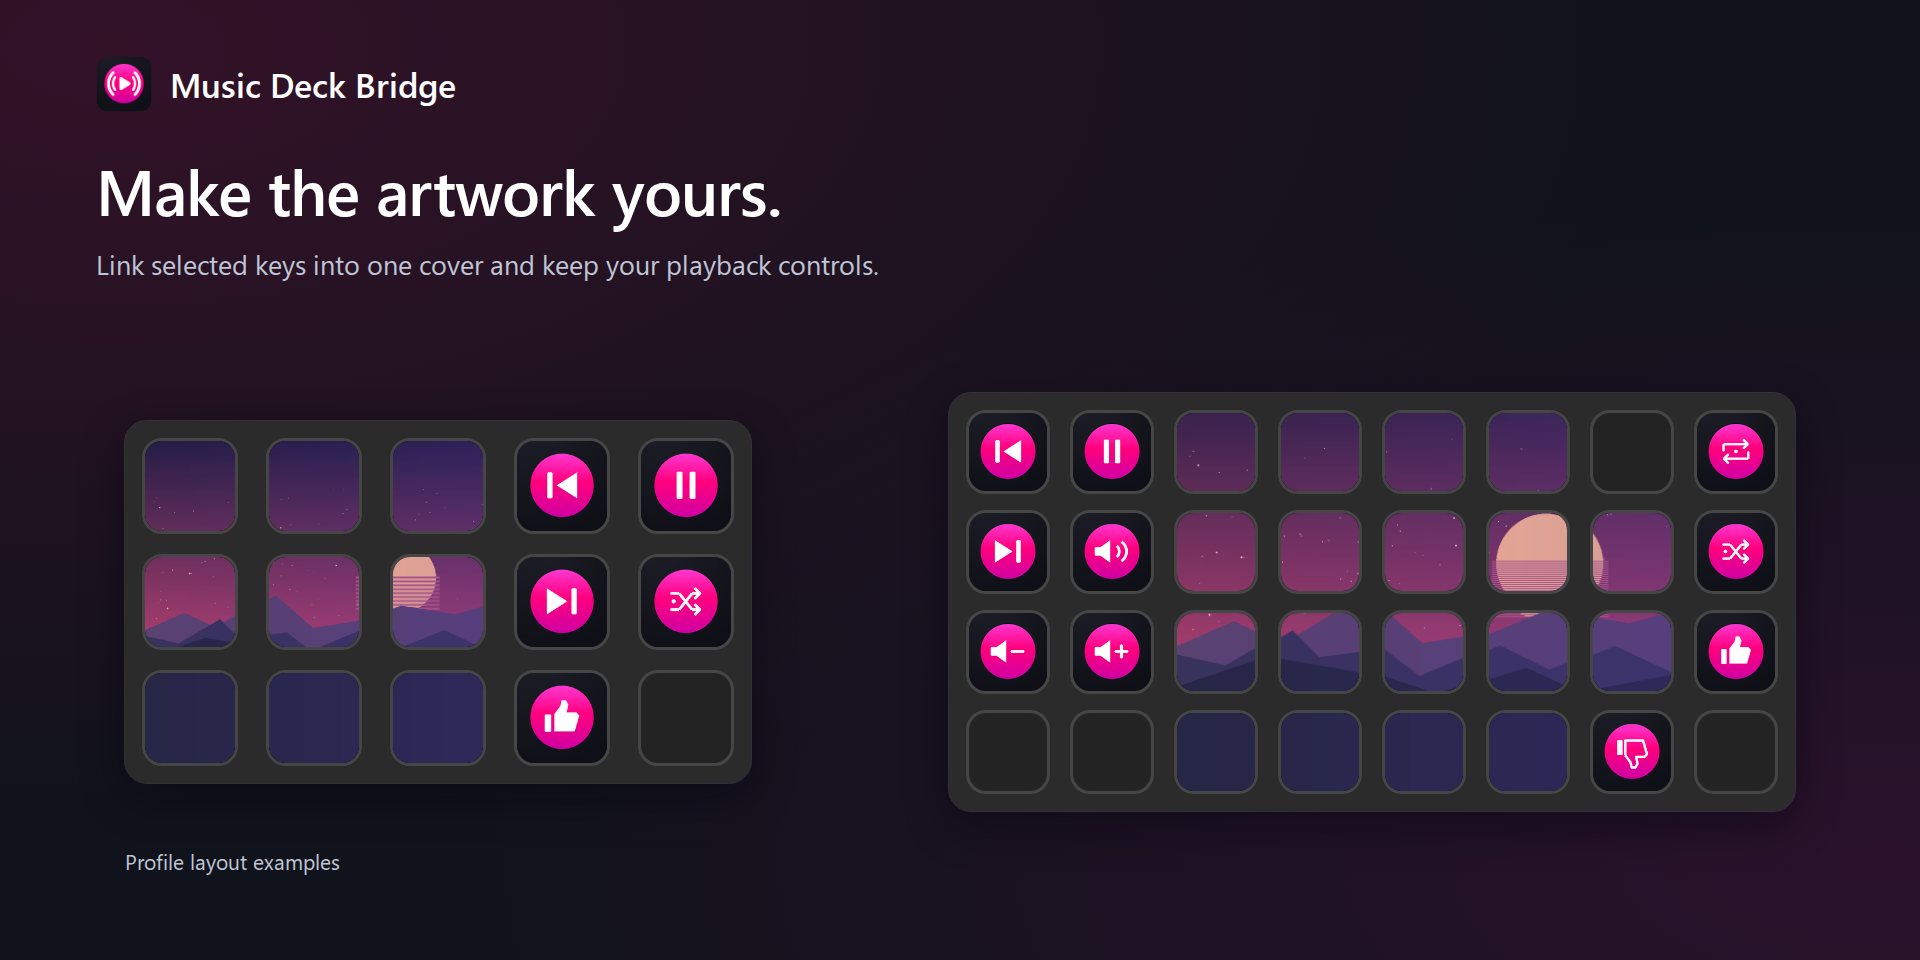
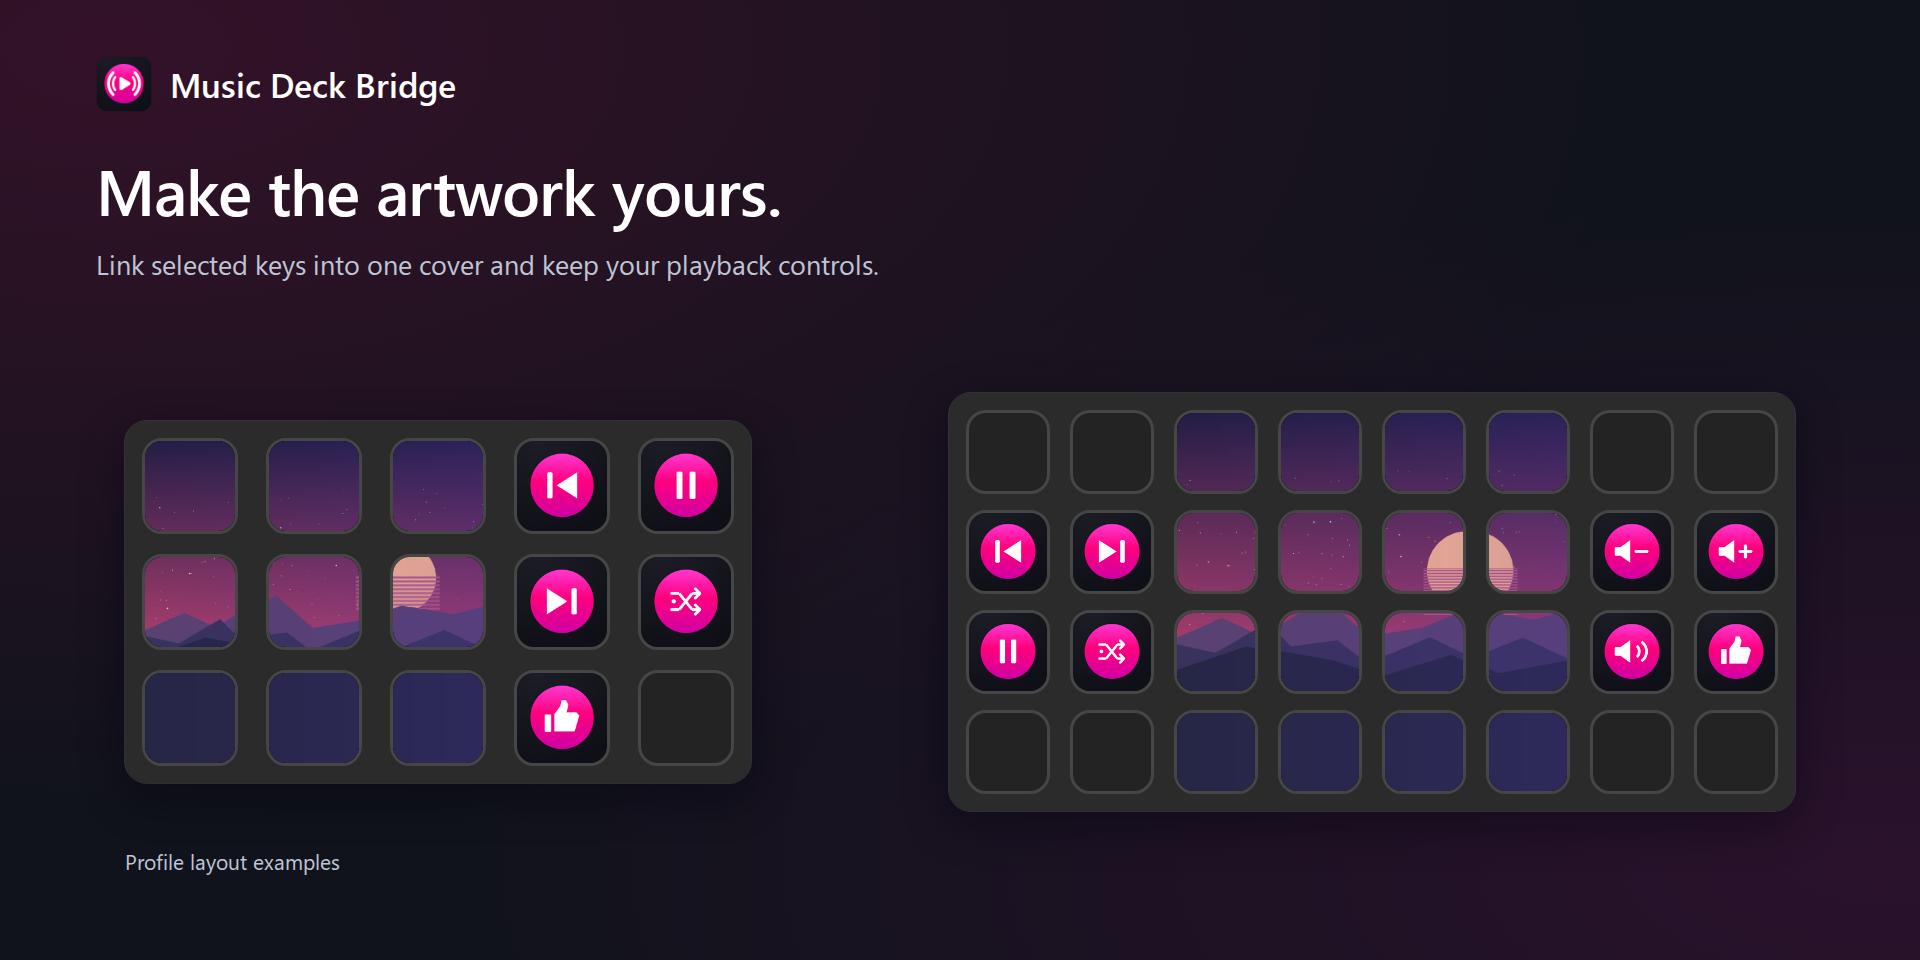
docs: center linked artwork on the Stream Deck XL

diff --git a/docs/verification/media.md b/docs/verification/media.md
@@ -41,7 +41,7 @@ Separately, on Windows Stream Deck 7.6.1.23033 with build `394b941`, the existin
 
 The [five gallery drafts](../../store-assets/drafts/v1.3.0/README.md) follow the layout, background colors and typography of the [published Marketplace gallery](https://marketplace.elgato.com/product/music-deck-bridge-044e81d9-9671-4277-bcb9-ce8b6d38c3fd). Revision `40b4245` records the product-photo draft. Revision `1dcf495` records the Stream Deck + app captures with the installed `394b941` plugin, including its eight-key linked artwork.
 
-The overview and controls slides use the [edited Stream Deck + profile capture](../../store-assets/drafts/v1.3.0/media/stream-deck-controls-profile-touch-strip.png) at native size. Its Current Track icon uses pixels captured with the updated plugin running in Windows Stream Deck 7.6.1.23033. Its Volume icon uses the updated transparent plugin asset at the size shown in the original app capture. Pixel comparisons confirmed both slides match the edited profile crop inside the rounded corners. The controls slide also shows a 5 × 3 MK.2 sample. The linked artwork slide shows MK.2 and 8 × 4 XL profile examples with nine and eighteen linked tiles respectively, alongside standard action icons and unassigned keys. Render checks confirmed each linked key received a distinct crop from the plugin's album tile renderer. [Elgato device comparison](https://help.elgato.com/hc/en-us/articles/4422903730573-Elgato-Stream-Deck-Device-Comparison)
+The overview and controls slides use the [edited Stream Deck + profile capture](../../store-assets/drafts/v1.3.0/media/stream-deck-controls-profile-touch-strip.png) at native size. Its Current Track icon uses pixels captured with the updated plugin running in Windows Stream Deck 7.6.1.23033. Its Volume icon uses the updated transparent plugin asset at the size shown in the original app capture. Pixel comparisons confirmed both slides match the edited profile crop inside the rounded corners. The controls slide also shows a 5 × 3 MK.2 sample. The linked artwork slide shows nine linked keys on MK.2 and a central 4 × 4 artwork block on XL, with action icons and unassigned keys on both profiles. Render checks confirmed each linked key received a distinct crop from the plugin's album tile renderer. A pixel comparison confirmed that the centered artwork revision only changed the XL panel. [Elgato device comparison](https://help.elgato.com/hc/en-us/articles/4422903730573-Elgato-Stream-Deck-Device-Comparison)
 
 The before-and-after Windows app captures confirmed that the Current Track feedback lost the dark rectangle around the icon. The prior installed plugin was restored after the check. SDK tests and the Chromium preview checked the volume and mute feedback. The Windows capture establishes app preview output for Current Track. Physical touch-strip output was outside the verification scope.
 
